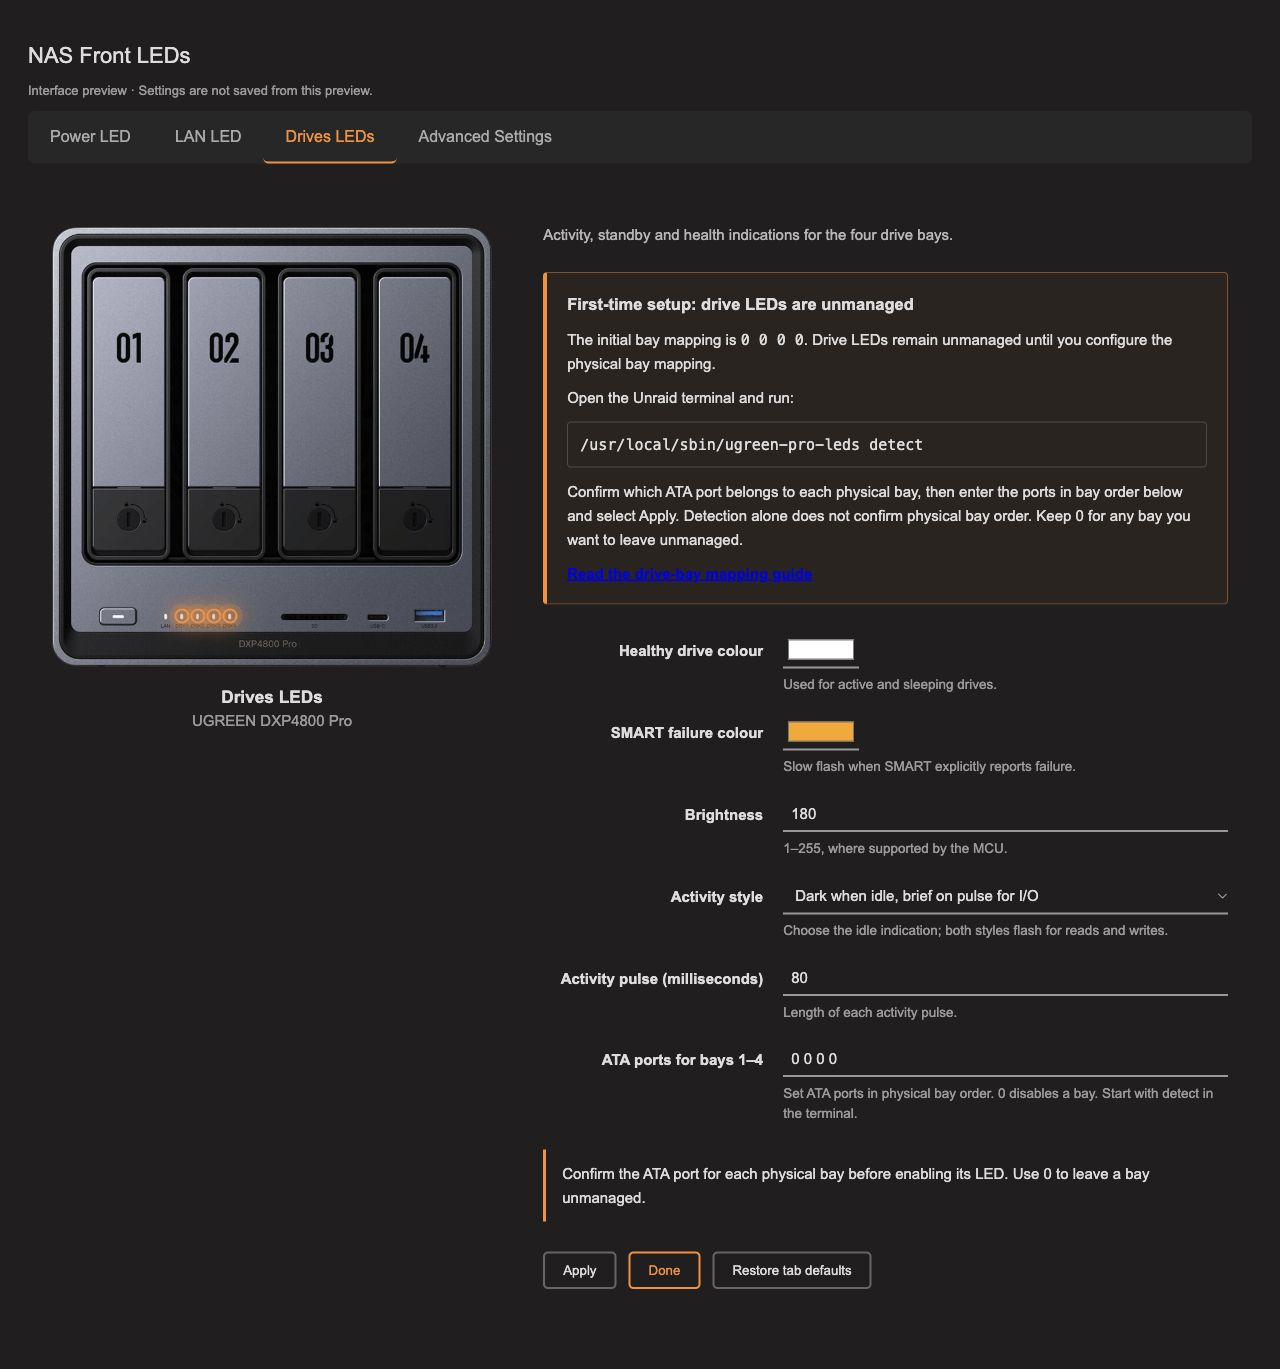
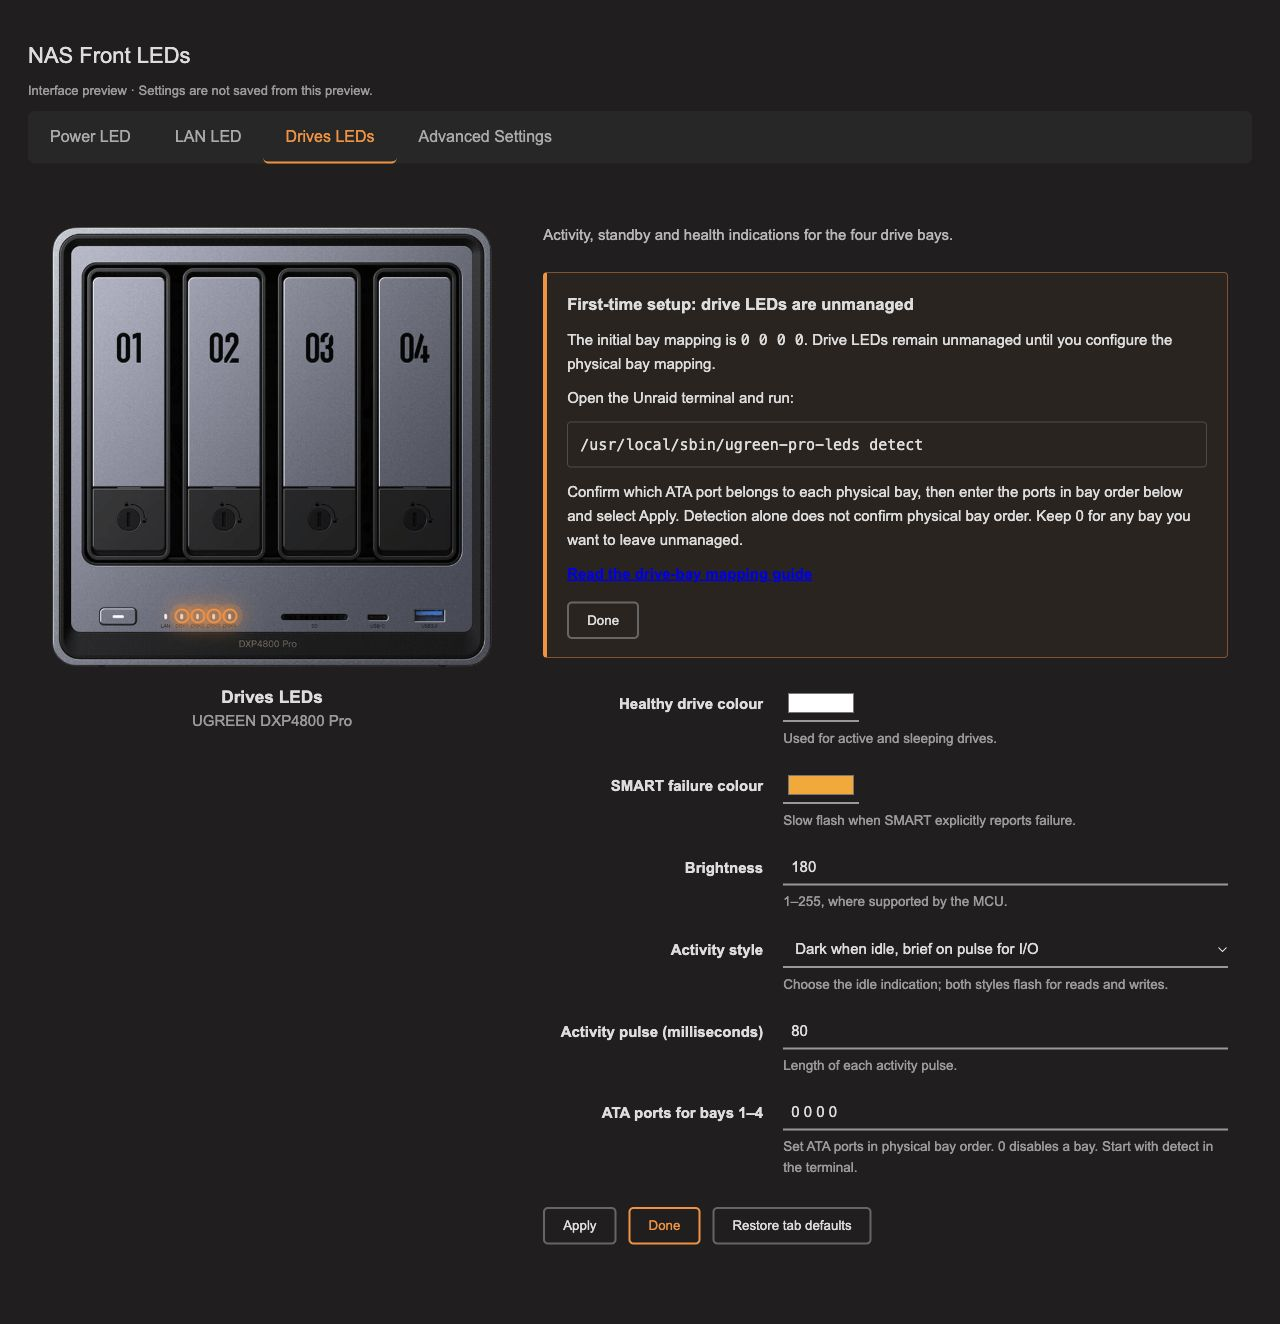
Make drive setup guide collapsible and refresh README previews

diff --git a/src/web/settings.js b/src/web/settings.js
@@ -1,0 +1,24 @@
+// SPDX-License-Identifier: MIT
+(() => {
+  const guide = document.querySelector('.nas-mapping-guide');
+  if (!guide) return;
+  const content = guide.querySelector('#nas-mapping-content');
+  const reopen = guide.querySelector('.nas-guide-open');
+  const done = guide.querySelector('.nas-guide-done');
+  const key = 'nas-front-leds.mapping-guide.dismissed';
+  function show(expanded, focus) {
+    content.hidden = !expanded;
+    reopen.hidden = expanded;
+    reopen.setAttribute('aria-expanded', String(expanded));
+    if (focus) (expanded ? done : reopen).focus();
+  }
+  try { show(localStorage.getItem(key) !== 'true', false); } catch (_) { show(true, false); }
+  done.addEventListener('click', () => {
+    show(false, true);
+    try { localStorage.setItem(key, 'true'); } catch (_) {}
+  });
+  reopen.addEventListener('click', () => {
+    show(true, true);
+    try { localStorage.removeItem(key); } catch (_) {}
+  });
+})();

diff --git a/src/web/settings.css b/src/web/settings.css
@@ -43,3 +43,10 @@
 .nas-front-settings .nas-mapping-guide p { margin: 10px 0; }
 .nas-front-settings .nas-mapping-guide pre { margin: 12px 0; padding: 10px 12px; border: 1px solid #9995; border-radius: 4px; white-space: pre-wrap; overflow-wrap: anywhere; }
 .nas-front-settings .nas-mapping-guide a { font-weight: 600; }
+
+.nas-front-settings .nas-guide-header { display: flex; align-items: center; justify-content: space-between; gap: 16px; }
+.nas-front-settings .nas-guide-header strong { font-size: 1.1em; }
+.nas-front-settings .nas-guide-header button { flex-shrink: 0; margin: 0; }
+.nas-front-settings .nas-mapping-guide [hidden] { display: none !important; }
+.nas-front-settings .nas-mapping-guide .actions { margin-top: 16px; }
+@media (max-width: 550px) { .nas-front-settings .nas-guide-header { flex-wrap: wrap; } }

diff --git a/build/package.py b/build/package.py
@@ -5,7 +5,7 @@ import base64, hashlib, io, os, shutil, tarfile, tempfile, xml.etree.ElementTree
 ROOT=Path(__file__).resolve().parent.parent
 DIST=ROOT/'dist'
 NAME='UGREEN-DXP4800Pro-LEDs'
-PKG='ugreen-pro-leds-2026.10.03.4-x86_64-1'
+PKG='ugreen-pro-leds-2026.10.03.5-x86_64-1'
 KERNEL='6.18.38-Unraid'
 def digest(p): return hashlib.sha256(p.read_bytes()).hexdigest()
 def archive(stage,out):
@@ -56,8 +56,8 @@ printf '%s  %s\\n' "'''+digest(bundle)+'''" "$scratch/bundle.tar.xz" | sha256sum
 tar -xJf "$scratch/bundle.tar.xz" -C "$scratch"
 "$scratch/install.sh" "$scratch"
 '''
- plg=ET.Element('PLUGIN',{'name':NAME,'author':'EllipticSet','pluginURL':'https://raw.githubusercontent.com/EllipticSet/UGREEN-DXP4800Pro-LEDs/main/UGREEN-DXP4800Pro-LEDs.plg','support':'https://github.com/EllipticSet/UGREEN-DXP4800Pro-LEDs/issues','version':'2026.10.03.4','icon':'lightbulb-o','launch':f'Settings/{NAME}','min':'7.3'})
- ET.SubElement(plg,'CHANGES').text='\n###2026.10.03.4\n- Remove LED highlights from Advanced Settings.\n- Add prominent first-time drive LED mapping instructions, the detection command and a README guide link.\n\n###2026.10.03.3\n- Rename the interface to NAS Front LEDs; add native Power, LAN, Drives and Advanced tabs with front-panel LED highlights.\n- Apply and restore defaults per tab while preserving other settings.\n- Remove the Beta label from plugin descriptions and Community Applications metadata.\n- Add desktop and mobile interface screenshots to the README.\n\n###2026.10.03.2\n- Allow Unraid 7.3 and later when the exact packaged kernel matches; retain the kernel guard.\n\n###2026.10.03.1\n- Refresh documentation and README badges; update plugin descriptions.\n\n###2026.10.02.4\n- Remove the manually loaded LED module with rmmod; report unload failures.\n\n###2026.10.02.3\n- Public GitHub and Community Applications metadata; preserve settings on updates with rollback.\n- English plugin listing and documentation; compact title and description.\n- Keep the native Unraid CSRF fix.\n- DXP4800 Pro build: Intel legacy I801, isolated workers, native settings, offline installer.\n'
+ plg=ET.Element('PLUGIN',{'name':NAME,'author':'EllipticSet','pluginURL':'https://raw.githubusercontent.com/EllipticSet/UGREEN-DXP4800Pro-LEDs/main/UGREEN-DXP4800Pro-LEDs.plg','support':'https://github.com/EllipticSet/UGREEN-DXP4800Pro-LEDs/issues','version':'2026.10.03.5','icon':'lightbulb-o','launch':f'Settings/{NAME}','min':'7.3'})
+ ET.SubElement(plg,'CHANGES').text='\n###2026.10.03.5\n- Add Done and Show guide controls to collapse and reopen the drive setup guide; remember dismissal in this browser.\n- Remove the duplicate drive mapping note below the controls.\n- Refresh README screenshots and show smaller clickable previews.\n\n###2026.10.03.4\n- Remove LED highlights from Advanced Settings.\n- Add prominent first-time drive LED mapping instructions, the detection command and a README guide link.\n\n###2026.10.03.3\n- Rename the interface to NAS Front LEDs; add native Power, LAN, Drives and Advanced tabs with front-panel LED highlights.\n- Apply and restore defaults per tab while preserving other settings.\n- Remove the Beta label from plugin descriptions and Community Applications metadata.\n- Add desktop and mobile interface screenshots to the README.\n\n###2026.10.03.2\n- Allow Unraid 7.3 and later when the exact packaged kernel matches; retain the kernel guard.\n\n###2026.10.03.1\n- Refresh documentation and README badges; update plugin descriptions.\n\n###2026.10.02.4\n- Remove the manually loaded LED module with rmmod; report unload failures.\n\n###2026.10.02.3\n- Public GitHub and Community Applications metadata; preserve settings on updates with rollback.\n- English plugin listing and documentation; compact title and description.\n- Keep the native Unraid CSRF fix.\n- DXP4800 Pro build: Intel legacy I801, isolated workers, native settings, offline installer.\n'
  desc=ET.SubElement(plg,'FILE',{'Name':f'/usr/local/emhttp/plugins/{NAME}/README.md'})
  # Plugin manager can read the description; installation will replace it with full documentation.
  # Do not install a description ahead of the preflight checks.

diff --git a/src/web/settings.php b/src/web/settings.php
@@ -20,7 +20,7 @@ $tabDescriptions = [
 ];
 ?>
 <?php if (empty($ugreenStylesLoaded)): $ugreenStylesLoaded = true; ?>
-<link rel="stylesheet" href="/plugins/UGREEN-DXP4800Pro-LEDs/settings.css?v=2026.10.03.4">
+<link rel="stylesheet" href="/plugins/UGREEN-DXP4800Pro-LEDs/settings.css?v=2026.10.03.5">
 <?php endif; ?>
 <div class="nas-front-settings" data-led-tab="<?= $tabKey ?>">
   <div class="nas-front-layout">
@@ -42,13 +42,20 @@ $tabDescriptions = [
       <?php endif; ?>
       <?php if ($tabKey === 'drives'): ?>
         <aside class="nas-mapping-guide" aria-label="Drive LED setup">
-          <strong>First-time setup: drive LEDs are unmanaged</strong>
+          <div class="nas-guide-header">
+            <strong>First-time setup: drive LEDs are unmanaged</strong>
+            <button type="button" class="nas-guide-open" aria-controls="nas-mapping-content" aria-expanded="true" hidden>Show guide</button>
+          </div>
+          <div id="nas-mapping-content">
           <p>The initial bay mapping is <code>0 0 0 0</code>. Drive LEDs remain unmanaged until you configure the physical bay mapping.</p>
           <p>Open the Unraid terminal and run:</p>
           <pre><code>/usr/local/sbin/ugreen-pro-leds detect</code></pre>
           <p>Confirm which ATA port belongs to each physical bay, then enter the ports in bay order below and select Apply. Detection alone does not confirm physical bay order. Keep 0 for any bay you want to leave unmanaged.</p>
           <a href="https://github.com/EllipticSet/UGREEN-DXP4800Pro-LEDs#configuration" target="_blank" rel="noopener noreferrer">Read the drive-bay mapping guide <i class="fa fa-external-link" aria-hidden="true"></i></a>
+          <div class="actions"><button type="button" class="nas-guide-done">Done</button></div>
+          </div>
         </aside>
+        <script src="/plugins/UGREEN-DXP4800Pro-LEDs/settings.js?v=2026.10.03.5"></script>
       <?php endif; ?>
       <form method="post" class="nas-front-form">
         <input type="hidden" name="csrf_token" value="<?= ugreen_pro_escape((string)($var['csrf_token'] ?? '')) ?>">
@@ -75,9 +82,7 @@ $tabDescriptions = [
           </div>
         <?php endforeach; ?>
 
-        <?php if ($tabKey === 'drives'): ?>
-          <p class="nas-front-note">Confirm the ATA port for each physical bay before enabling its LED. Use 0 to leave a bay unmanaged.</p>
-        <?php elseif ($tabKey === 'power'): ?>
+        <?php if ($tabKey === 'power'): ?>
           <p class="nas-front-note">During shutdown, the Power LED blinks using the running colour.</p>
         <?php endif; ?>
         <div class="actions">

diff --git a/tests/package-test.py b/tests/package-test.py
@@ -15,11 +15,11 @@ with tarfile.open(fileobj=io.BytesIO(blob),mode='r:xz') as tf:
  assert b'vermagic=6.18.38-Unraid ' in module
[1 lines of base64/hex data omitted]
  assert not any('designware' in m.name for m in tf.getmembers())
- pkg=tf.extractfile('ugreen-pro-leds-2026.10.03.4-x86_64-1.txz').read()
+ pkg=tf.extractfile('ugreen-pro-leds-2026.10.03.5-x86_64-1.txz').read()
  with tarfile.open(fileobj=io.BytesIO(pkg),mode='r:xz') as pt:
   names=pt.getnames()
   assert 'install/slack-desc' in names
-  for asset in ['settings.css', 'settings-controller.php', 'images/nas-front.png', 'NASFrontLEDsPower.page', 'NASFrontLEDsLan.page', 'NASFrontLEDsDrives.page', 'NASFrontLEDsAdvanced.page']:
+  for asset in ['settings.js', 'settings.css', 'settings-controller.php', 'images/nas-front.png', 'NASFrontLEDsPower.page', 'NASFrontLEDsLan.page', 'NASFrontLEDsDrives.page', 'NASFrontLEDsAdvanced.page']:
    assert 'usr/local/emhttp/plugins/UGREEN-DXP4800Pro-LEDs/' + asset in names
   assert 'usr/local/sbin/ugreen-pro-leds' in names
   assert pt.getmember('usr/local/sbin/ugreen-pro-leds').mode==0o755

diff --git a/tests/install-update-test.py b/tests/install-update-test.py
@@ -7,7 +7,7 @@ with tempfile.TemporaryDirectory() as t:
  for p in ['tmp','boot/config/plugins/UGREEN-DXP4800Pro-LEDs','usr/local/sbin','usr/local/emhttp/plugins/UGREEN-DXP4800Pro-LEDs','var/log/packages','usr/local/lib/ugreen-pro-leds','usr/local/share/ugreen-pro-leds']:(machine/p).mkdir(parents=True,exist_ok=True)
  (bundle/'preflight.sh').write_text('#!/bin/bash\nexit 0\n');(bundle/'preflight.sh').chmod(0o755)
  payload=bundle/'payload/usr/local/lib/ugreen-pro-leds/6.18.38-Unraid';payload.mkdir(parents=True);(payload/'led-ugreen.ko').touch()
- (bundle/'ugreen-pro-leds-2026.10.03.4-x86_64-1.txz').touch()
+ (bundle/'ugreen-pro-leds-2026.10.03.5-x86_64-1.txz').touch()
  (bundle/'settings.example.cfg').write_text('DEFAULT=1\n')
  monitor=machine/'usr/local/sbin/ugreen-pro-leds';config=machine/'boot/config/plugins/UGREEN-DXP4800Pro-LEDs/settings.cfg'
  config.write_text('CUSTOM=preserved\n')

diff --git a/README.md b/README.md
@@ -8,7 +8,7 @@
 
 <p>
   <a href="https://github.com/EllipticSet/UGREEN-DXP4800Pro-LEDs/actions/workflows/validate.yml"><img src="https://img.shields.io/github/actions/workflow/status/EllipticSet/UGREEN-DXP4800Pro-LEDs/validate.yml?branch=main&amp;label=tests" alt="Tests"></a>
-  <a href="https://github.com/EllipticSet/UGREEN-DXP4800Pro-LEDs/releases/latest"><img src="https://img.shields.io/github/v/release/EllipticSet/UGREEN-DXP4800Pro-LEDs?label=release&amp;color=blue" alt="Plugin release: 2026.10.03.4"></a>
+  <a href="https://github.com/EllipticSet/UGREEN-DXP4800Pro-LEDs/releases/latest"><img src="https://img.shields.io/github/v/release/EllipticSet/UGREEN-DXP4800Pro-LEDs?label=release&amp;color=blue" alt="Plugin release: 2026.10.03.5"></a>
   <img src="https://img.shields.io/badge/Unraid-7.3%2B-e8543f" alt="Unraid requirement: 7.3+; exact kernel required">
   <a href="https://github.com/EllipticSet/UGREEN-DXP4800Pro-LEDs/releases"><img src="https://img.shields.io/github/downloads/EllipticSet/UGREEN-DXP4800Pro-LEDs/total?color=blueviolet" alt="GitHub release asset downloads"></a>
   <a href="LICENSE"><img src="https://img.shields.io/github/license/EllipticSet/UGREEN-DXP4800Pro-LEDs?color=green" alt="License: MIT"></a>
@@ -22,20 +22,27 @@ This plugin controls the Power, LAN and four drive-bay LEDs, with configurable c
 
 ## Settings screenshots
 
-Interface previews using the native Unraid tab renderer and a simulated dark theme. The installed page inherits your active Unraid theme; verification of this update on the NAS is still pending.
+Interface previews using the native Unraid tab renderer and a simulated dark theme. The installed page inherits your active Unraid theme; verification of this update on the NAS is still pending. Click any preview to open the full-size screenshot.
 
 | Power LED | LAN LED |
 | --- | --- |
-| ![Power LED settings](docs/screenshots/NAS-Front-LEDs-power.jpg) | ![LAN LED settings](docs/screenshots/NAS-Front-LEDs-lan.jpg) |
+| <a href="docs/screenshots/NAS-Front-LEDs-power.jpg"><img src="docs/screenshots/NAS-Front-LEDs-power.jpg" alt="Power LED settings" width="260"></a> | <a href="docs/screenshots/NAS-Front-LEDs-lan.jpg"><img src="docs/screenshots/NAS-Front-LEDs-lan.jpg" alt="LAN LED settings" width="260"></a> |
 
 | Drives LEDs | Advanced Settings |
 | --- | --- |
-| ![Drives LEDs settings](docs/screenshots/NAS-Front-LEDs-drives.jpg) | ![Advanced Settings](docs/screenshots/NAS-Front-LEDs-advanced.jpg) |
+| <a href="docs/screenshots/NAS-Front-LEDs-drives.jpg"><img src="docs/screenshots/NAS-Front-LEDs-drives.jpg" alt="Drives LEDs settings" width="260"></a> | <a href="docs/screenshots/NAS-Front-LEDs-advanced.jpg"><img src="docs/screenshots/NAS-Front-LEDs-advanced.jpg" alt="Advanced Settings" width="260"></a> |
+
+<details>
+<summary>Collapsed setup guide</summary>
+
+<a href="docs/screenshots/NAS-Front-LEDs-drives-collapsed.jpg"><img src="docs/screenshots/NAS-Front-LEDs-drives-collapsed.jpg" alt="Drive setup guide collapsed with Show guide control" width="260"></a>
+
+</details>
 
 <details>
 <summary>Mobile preview</summary>
 
-<img src="docs/screenshots/NAS-Front-LEDs-mobile.jpg" alt="Drives LEDs settings at 390px, with the front-panel image above the controls" width="320">
+<a href="docs/screenshots/NAS-Front-LEDs-mobile.jpg"><img src="docs/screenshots/NAS-Front-LEDs-mobile.jpg" alt="Drives LEDs settings at 390px, with the front-panel image above the controls" width="200"></a>
 
 </details>
 
